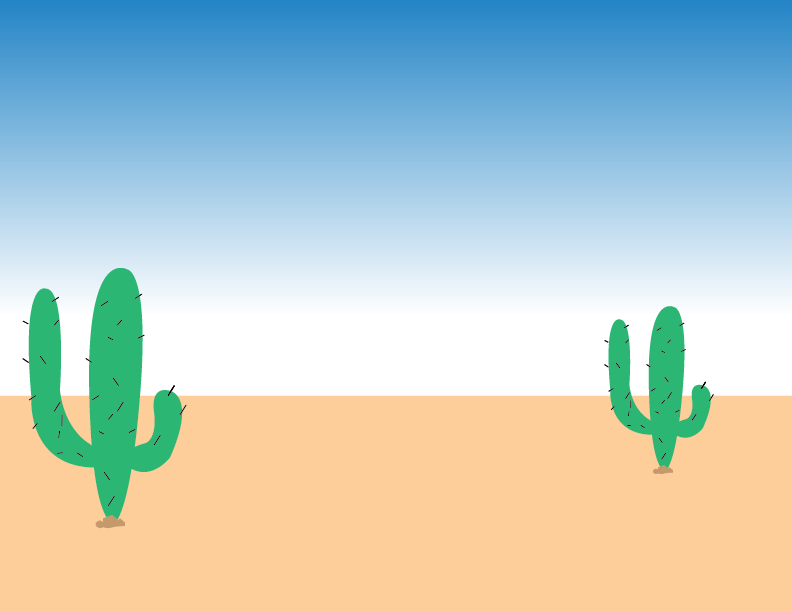
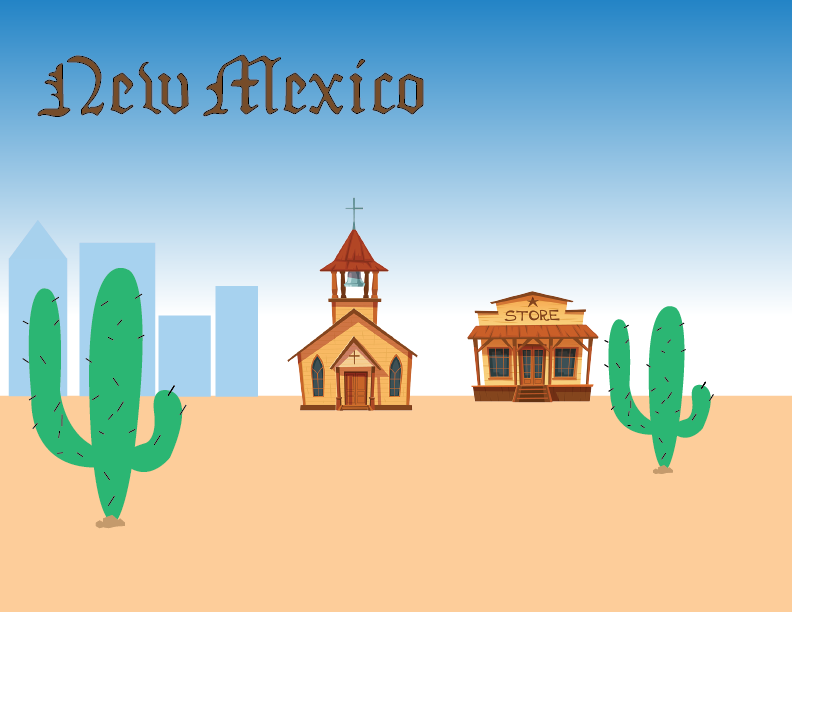
us

diff --git a/Unit4/mp4/sketch.js b/Unit4/mp4/sketch.js
@@ -37,6 +37,8 @@ function setup() {
   // load any images you need
   plane = loadImage("assets/plane.png");
   albuquerque = loadImage("assets/NewMexico.png");
+  grunge = loadImage("assets/Seattle4.png");
+  tampa = loadImage("assets/Tampa.png");
   imageMode(CENTER);
   rectMode(CENTER);
   noStroke();
@@ -70,6 +72,16 @@ function draw() {
     myCityString = 'https://api.openweathermap.org/data/2.5/weather?q=Albuquerque,NM,US&units=imperial&appid=2ab3fd961cc8c4aacb1786ddb79e8da5';
   }
 
+  if ((xPosition > 170) && (yPosition < 250) && (yPosition > 350)) {
+    city = 1;
+    myCityString = 'https://api.openweathermap.org/data/2.5/weather?q=Tampa,FL,US&units=imperial&appid=2ab3fd961cc8c4aacb1786ddb79e8da5';
+  }
+
+  if ((xPosition < 170) && (yPosition > 250) && (yPosition < 350)) {
+    city = 3;
+    myCityString = 'https://api.openweathermap.org/data/2.5/weather?q=Seattle,WA,US&units=imperial&appid=2ab3fd961cc8c4aacb1786ddb79e8da5';
+  }
+
 if (prevcity != city){
   loadJSON(myCityString, gotData);
 }
@@ -83,8 +95,8 @@ prevcity = city;
       break;
 
     case 1:
-    background('green');
-      text("Tampa", 20, 22, 460, 400);
+    image(tampa, 0, 0, 800, 450);
+    if (weather) {
       //rect(x, 100, 100, 100) ;
       text("What is the weather in " + weather.name + "?", 20, 20);
      text("Windspeed Is " + windspeed, 20, 40);
@@ -108,7 +120,9 @@ prevcity = city;
       break;
 
       case 3: //Seattle
-          background('yellow');
+      image(grunge, 0, 0, 500, 130);
+      if (weather) {
+
         fill('black')
         text("What is the weather in " + weather.name + "?", 20, 20);
        text("Windspeed Is " + windspeed, 20, 40);
